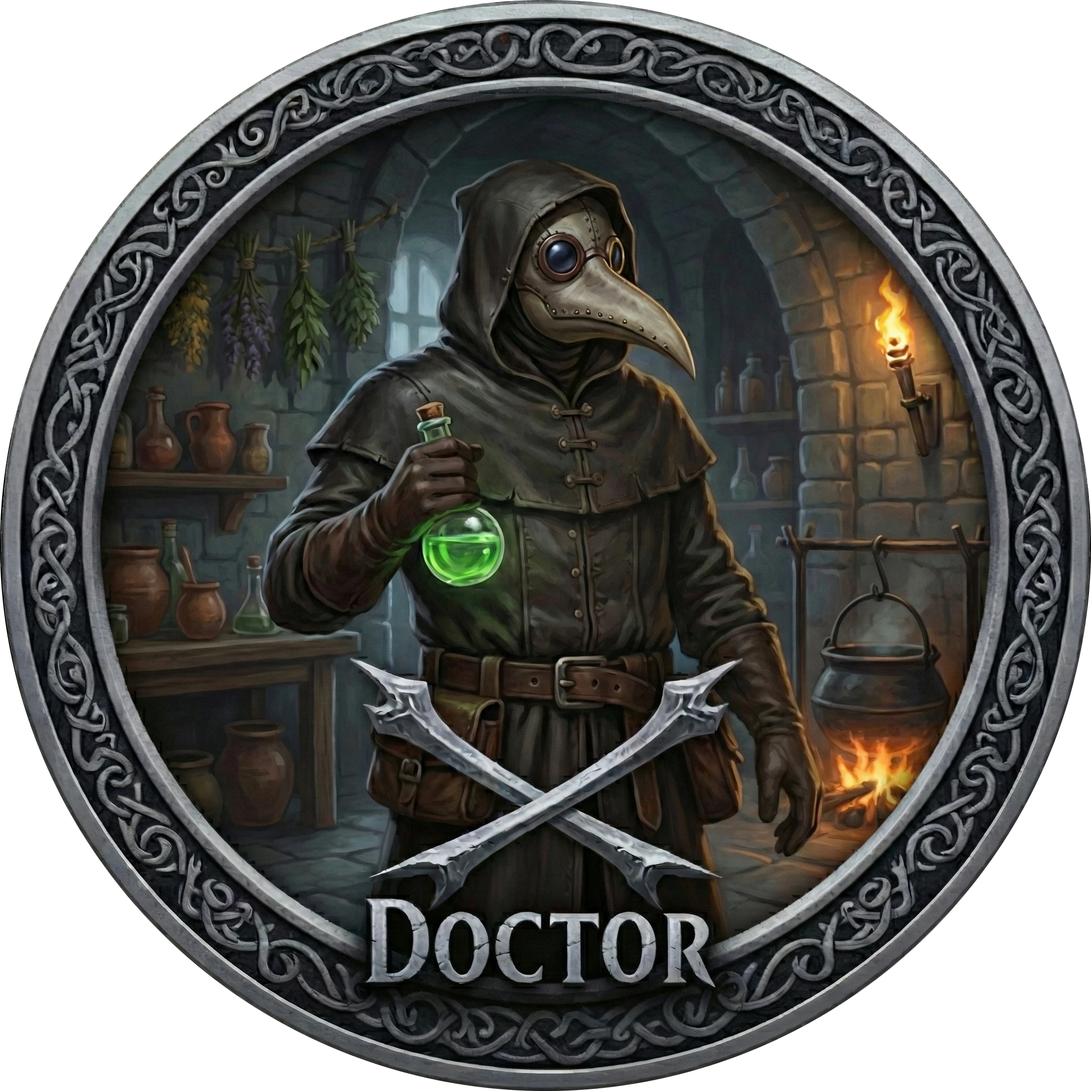
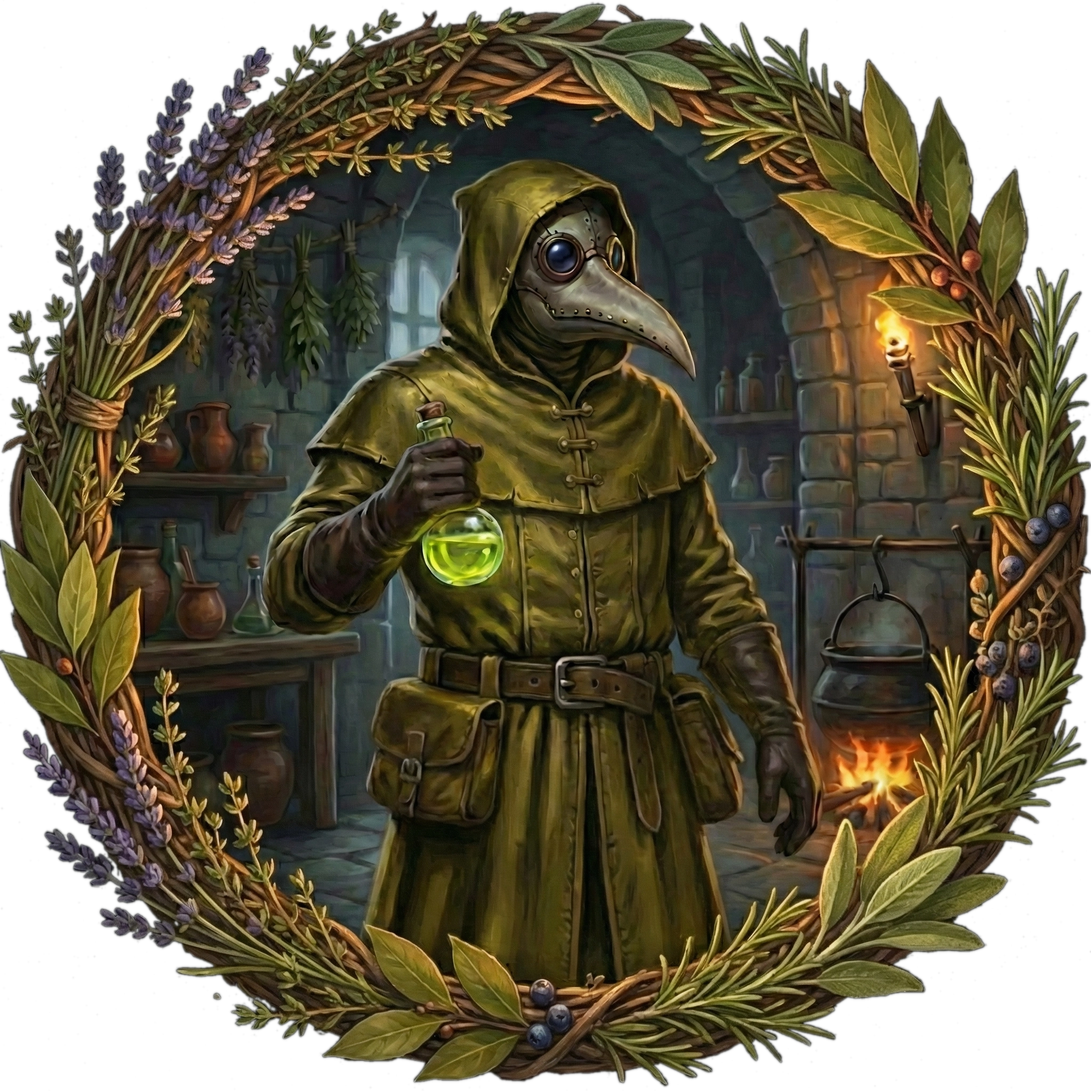
Improve player card visuals and update seal images
- Switch seal glow from box-shadow to filter: drop-shadow so it follows
  the PNG alpha channel instead of the rectangular bounding box
- Increase glow intensity for both villager and werewolf seals; fix
  werewolf hover snap by using consistent color values for smooth transition
- Show role name in card footer (team-colored, uppercase) instead of team
  label when role is known; remove role name from above description
- Fix card height consistency: add min-height to .pc-desc so 2-line
  descriptions take the same space as 3-line ones; always render the
  element so unknown cards match known card height
- Replace unknown card description with large "???" placeholder
- Extend --watch mode to also restart on .webp/.png asset changes
- Update all seal images (names removed from artwork)

diff --git a/static/player-card.js b/static/player-card.js
@@ -141,8 +141,8 @@
     }
     .pc-seal {
       width: 100%; height: 100%;
-      object-fit: contain; border-radius: 50%; display: block;
-      transition: box-shadow 0.15s;
+      transition: filter 0.15s;
+      object-fit: contain; display: block;
     }
     .pc-seal.pc-seal-profile {
       object-fit: cover;
@@ -150,16 +150,16 @@
       height: auto;
     }
     :host([team=villager]) .pc-seal {
-      box-shadow: 0 0 0 3px var(--c-seal-ring), 0 4px 18px var(--c-seal-shadow);
+      filter: drop-shadow(0 0 4px var(--c-seal-ring)) drop-shadow(0 0 8px var(--c-seal-ring)) drop-shadow(0 5px 12px var(--c-seal-shadow));
     }
     :host([team=villager]) .pc-card:hover .pc-seal {
-      box-shadow: 0 0 0 3px var(--c-seal-ring-hover), 0 6px 22px var(--c-seal-shadow-hover);
+      filter: drop-shadow(0 0 5px var(--c-seal-ring-hover)) drop-shadow(0 0 10px var(--c-seal-ring-hover)) drop-shadow(0 7px 16px var(--c-seal-shadow-hover));
     }
     :host([team=werewolf]) .pc-seal {
-      box-shadow: 0 0 0 3px color-mix(in srgb, var(--c-danger) 55%, transparent), 0 4px 18px var(--c-seal-shadow);
+      filter: drop-shadow(0 0 4px var(--c-danger)) drop-shadow(0 0 8px var(--c-danger)) drop-shadow(0 5px 12px var(--c-seal-shadow));
     }
     :host([team=werewolf]) .pc-card:hover .pc-seal {
-      box-shadow: 0 0 0 3px color-mix(in srgb, var(--c-danger) 80%, transparent), 0 6px 22px var(--c-seal-shadow-hover);
+      filter: drop-shadow(0 0 6px var(--c-danger)) drop-shadow(0 0 12px var(--c-danger)) drop-shadow(0 7px 16px var(--c-seal-shadow-hover));
     }
 
     /* ── Count badge — top-left of seal wrap, expanded only ────────────── */
@@ -203,16 +203,20 @@
       text-align: center; margin: calc(var(--pico-spacing) * 0.3) 0 0; line-height: 1.2;
       width: 100%; white-space: nowrap; overflow: hidden; text-overflow: ellipsis;
     }
-    /* Role name hidden in expanded mode (it's visible in the seal image) */
-    .pc-exp .pc-role { display: none; }
+
     .pc-role { font-size: 1rem; color: var(--c-amber); text-align: center; margin: 0.1em 0 0; }
     .pc-desc {
       font-size: 1rem; color: var(--c-muted); text-align: center;
       line-height: 1.35;
       margin: calc(var(--pico-spacing) * 0.3) 0 calc(var(--pico-spacing) * 0.4);
       flex: 1;
+      min-height: calc(1rem * 1.35 * 3);
       display: -webkit-box; -webkit-line-clamp: 3;
       -webkit-box-orient: vertical; overflow: hidden;
+    }
+    .pc-desc-unknown {
+      font-size: 3.5rem; line-height: 1; display: flex;
+      align-items: center; justify-content: center;
     }
     .pc-footer {
       display: flex; justify-content: center; align-items: center;
@@ -224,8 +228,15 @@
       text-transform: uppercase;
       color: var(--c-muted);
     }
-    :host([team=villager]) .pc-team { color: var(--c-team-villager-label); }
-    :host([team=werewolf]) .pc-team { color: var(--c-team-werewolf-label); }
+    .pc-footer .pc-role {
+      font-size: 1rem;
+      text-transform: uppercase;
+      color: var(--c-muted);
+    }
+    :host([team=villager]) .pc-team,
+    :host([team=villager]) .pc-footer .pc-role { color: var(--c-team-villager-label); }
+    :host([team=werewolf]) .pc-team,
+    :host([team=werewolf]) .pc-footer .pc-role { color: var(--c-team-werewolf-label); }
     :host([team=villager]) .pc-col .pc-role { color: var(--c-team-villager-label); }
     :host([team=werewolf]) .pc-col .pc-role { color: var(--c-team-werewolf-label); }
 
@@ -432,9 +443,11 @@
            + `</div>`;
         h += `</div>`;
         if (playerName) h += `<span class="pc-name">${esc(playerName)}</span>`;
-        if (roleName)   h += `<span class="pc-role">${esc(roleName)}</span>`;
-        if (roleDesc)   h += `<p class="pc-desc">${esc(roleDesc)}</p>`;
-        h += `<div class="pc-footer"><span class="pc-team">${esc(team)}</span>`;
+        h += team === 'unknown'
+          ? `<p class="pc-desc pc-desc-unknown">???</p>`
+          : `<p class="pc-desc">${esc(roleDesc)}</p>`;
+        const footerLabel = (roleName && team !== 'unknown') ? `<span class="pc-role">${esc(roleName)}</span>` : `<span class="pc-team">${esc(team)}</span>`;
+        h += `<div class="pc-footer">${footerLabel}`;
         if (aliveAttr !== null) {
           const alive = aliveAttr === 'true';
           h += `<span class="${alive ? 'pc-alive' : 'pc-dead'}">&nbsp;| ${alive ? 'Alive' : 'Dead'}</span>`;

diff --git a/static/style.css b/static/style.css
@@ -47,9 +47,9 @@ h1, h2, h3, h4, h5, h6 {
   --c-card-inner-glow:       rgba(157, 181, 204, 0.05);
   --c-card-team-villager:    rgba(100, 148, 196, 0.22);
   --c-card-team-werewolf:    rgba(160,  40,  24, 0.28);
-  --c-seal-ring:             rgba(157, 181, 204, 0.14);
+  --c-seal-ring:             rgba(157, 181, 204, 0.7);
   --c-seal-shadow:           rgba(0,   0,   0,  0.65);
-  --c-seal-ring-hover:       rgba(200, 104,  32, 0.35);
+  --c-seal-ring-hover:       rgba(200, 104,  32, 0.9);
   --c-seal-shadow-hover:     rgba(0,   0,   0,  0.75);
   --c-card-hover-shadow:     rgba(0,   0,   0,  0.65);
   --c-card-hover-ring:       rgba(157, 181, 204, 0.18);
@@ -155,9 +155,9 @@ h1, h2, h3, h4, h5, h6 {
   --c-card-inner-glow:       rgba(58, 122,  58, 0.06);
   --c-card-team-villager:    rgba(58, 122,  58, 0.18);
   --c-card-team-werewolf:    rgba(150,  48,  24, 0.22);
-  --c-seal-ring:             rgba(58, 122,  58, 0.2);
+  --c-seal-ring:             rgba(58, 122,  58, 0.8);
   --c-seal-shadow:           rgba(0,   0,   0,  0.18);
-  --c-seal-ring-hover:       rgba(58, 122,  58, 0.4);
+  --c-seal-ring-hover:       rgba(58, 122,  58, 0.95);
   --c-seal-shadow-hover:     rgba(0,   0,   0,  0.26);
   --c-card-hover-shadow:     rgba(0,   0,   0,  0.1);
   --c-card-hover-ring:       rgba(58, 122,  58, 0.28);
@@ -278,7 +278,7 @@ html::before {
   position: fixed;
   inset: 0;
   z-index: 0;
-  background-image: linear-gradient(rgba(7, 8, 13, 0.82), rgba(7, 8, 13, 0.82)),
+  background-image: linear-gradient(rgba(7, 8, 13, 0.7), rgba(7, 8, 13, 0.7)),
                     url('/static/backgrounds/background_night.webp');
   background-size: cover;
   background-position: center;
@@ -292,7 +292,7 @@ html::after {
   position: fixed;
   inset: 0;
   z-index: 0;
-  background-image: linear-gradient(rgba(242, 234, 214, 0.80), rgba(242, 234, 214, 0.80)),
+  background-image: linear-gradient(rgba(242, 234, 214, 0.7), rgba(242, 234, 214, 0.7)),
                     url('/static/backgrounds/background_day.webp');
   background-size: cover;
   background-position: center;
